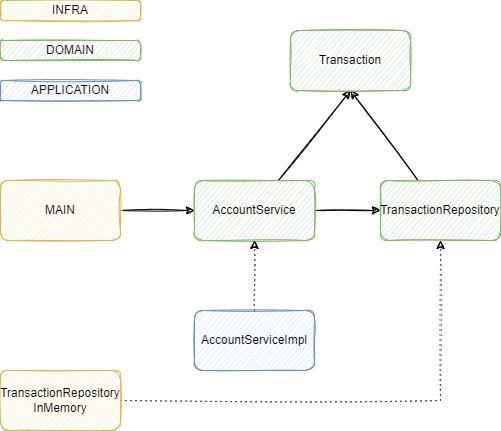
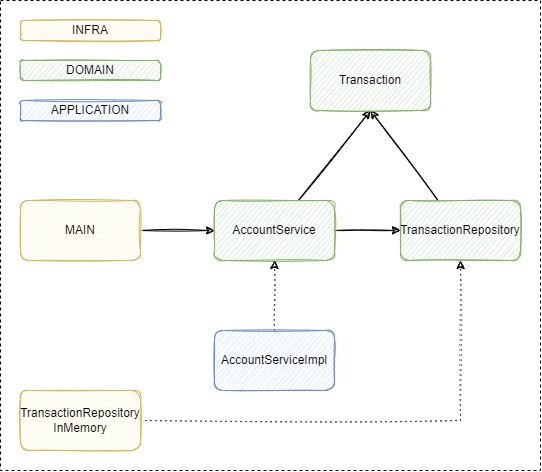
* Updating diagram and README.md * Updating .gitignore

diff --git a/README.md b/README.md
@@ -2,11 +2,16 @@
 
 Just a Bank Kata Skeleton for the well known Bank Kata exercise.
 
-You can follow the instructions in any of the exercises published in internet 
+You can follow the instructions in any of the exercises published in internet
 
 [Bank kata - Codurance Katalyst](https://katalyst.codurance.com/bank)
 
 [Bank Kata - kata-log.rocks](https://kata-log.rocks/banking-kata)
+
+## Rules
+
+The only rule is to not modify the two interfaces present in the code `AccountService` and `TransactionRepository`. All
+the other files can be modified, replaced or even removed.
 
 ## Simple diagram of the skeleton
 
